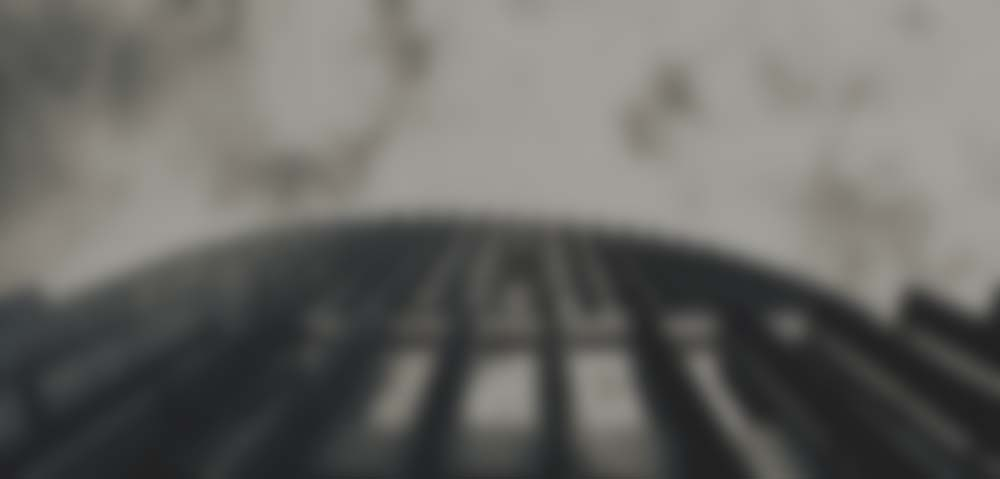
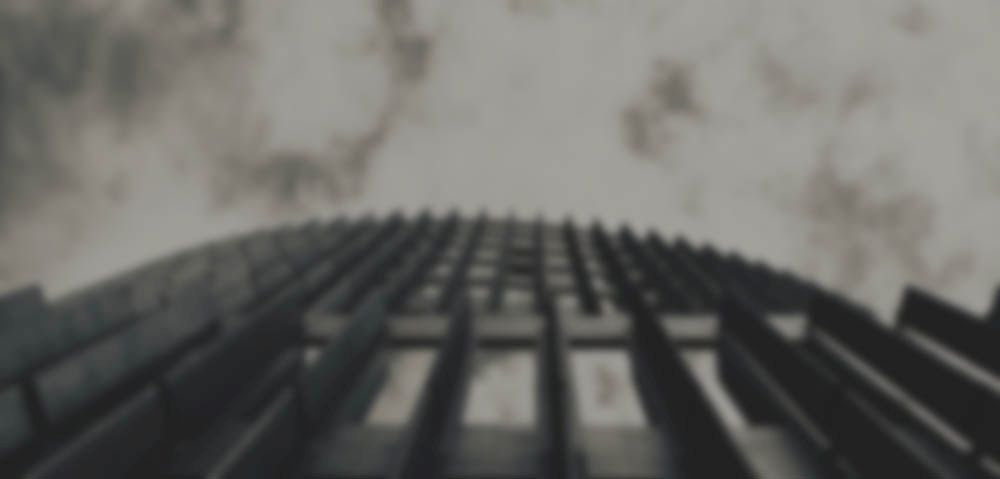
image loader

diff --git a/src/Components/Frontpage/FrontPage.js b/src/Components/Frontpage/FrontPage.js
@@ -7,7 +7,8 @@ const frontPage = () => {
   return (
     // Name and Social media Icons
 
-    <div className="frontimage-container">
+    <div className="frontimage">
+      <div className="frontimage-container"></div>
       <div className="front-header">
         <div className="front-title">
           <h1 className="name-primary">
@@ -50,29 +51,31 @@ const frontPage = () => {
           </a>
         </div>
       </div>
-      <ProgressiveImage
-        // delay={1000}
-        src={frontImage}
-        placeholder={
-          <img
-            className="placeholderImage"
-            src="../../images/image-9-tiny4.jpg"
-            alt="placeHolder"
-          ></img>
-        }
-      >
-        {(src, loading) => (
-          <img
-            style={{
-              // backgroundColor: "#242424",
-              filter: loading ? "blur(10px)" : "",
-              transition: "0.7s filter linear",
-            }}
-            src={src}
-            alt="frontImage"
-          />
-        )}
-      </ProgressiveImage>
+      <div className="progressive-image">
+        <ProgressiveImage
+          // delay={1000}
+          src={frontImage}
+          placeholder={
+            <img
+              className="placeholderImage"
+              src="../../images/image-9-tiny2.jpg"
+              alt="placeHolder"
+            ></img>
+          }
+        >
+          {(src, loading) => (
+            <img
+              style={{
+                // backgroundColor: "#242424",
+                filter: loading ? "blur(10px)" : "",
+                transition: "0.7s filter linear",
+              }}
+              src={src}
+              alt="frontImage"
+            />
+          )}
+        </ProgressiveImage>
+      </div>
       {/* <img src={frontImage} alt="frontPage"></img> */}
     </div>
   );

diff --git a/src/Components/Frontpage/FrontPage.css b/src/Components/Frontpage/FrontPage.css
@@ -7,15 +7,25 @@
   --secondary-color: rgb(95, 200, 241);
 }
 
-.frontimage-container {
-  /* background-color: #242424; */
+.frontimage {
+  background: #242424;
   height: 100vh;
   width: 100%;
+}
+.frontimage-container {
+  /* background-color: #242424; */
+  /* height: 100vh;
+  width: 100%; */
+  width: 100%;
+  height: 100%;
   display: flex;
   align-items: center;
   /* padding-left: 18vw; */
-  background: url("../../images/image-9-tiny4.jpg") center center/cover
+  background: url("../../images/image-9-tiny2.jpg") center center/cover
     no-repeat;
+  overflow: hidden;
+
+  filter: blur(10px);
 
   /* min-height: calc(100vh - 60px); */
 }
@@ -28,8 +38,20 @@
 
 .placeholderImage {
   /* background-color: #242424; */
+
   width: 2257px;
   height: 1080px;
+}
+.progressive-image {
+  display: flex;
+
+  justify-content: center;
+  overflow: hidden;
+  width: 100%;
+  height: 100vh;
+  position: absolute;
+  top: 0;
+  left: 0;
 }
 
 .front-header {
